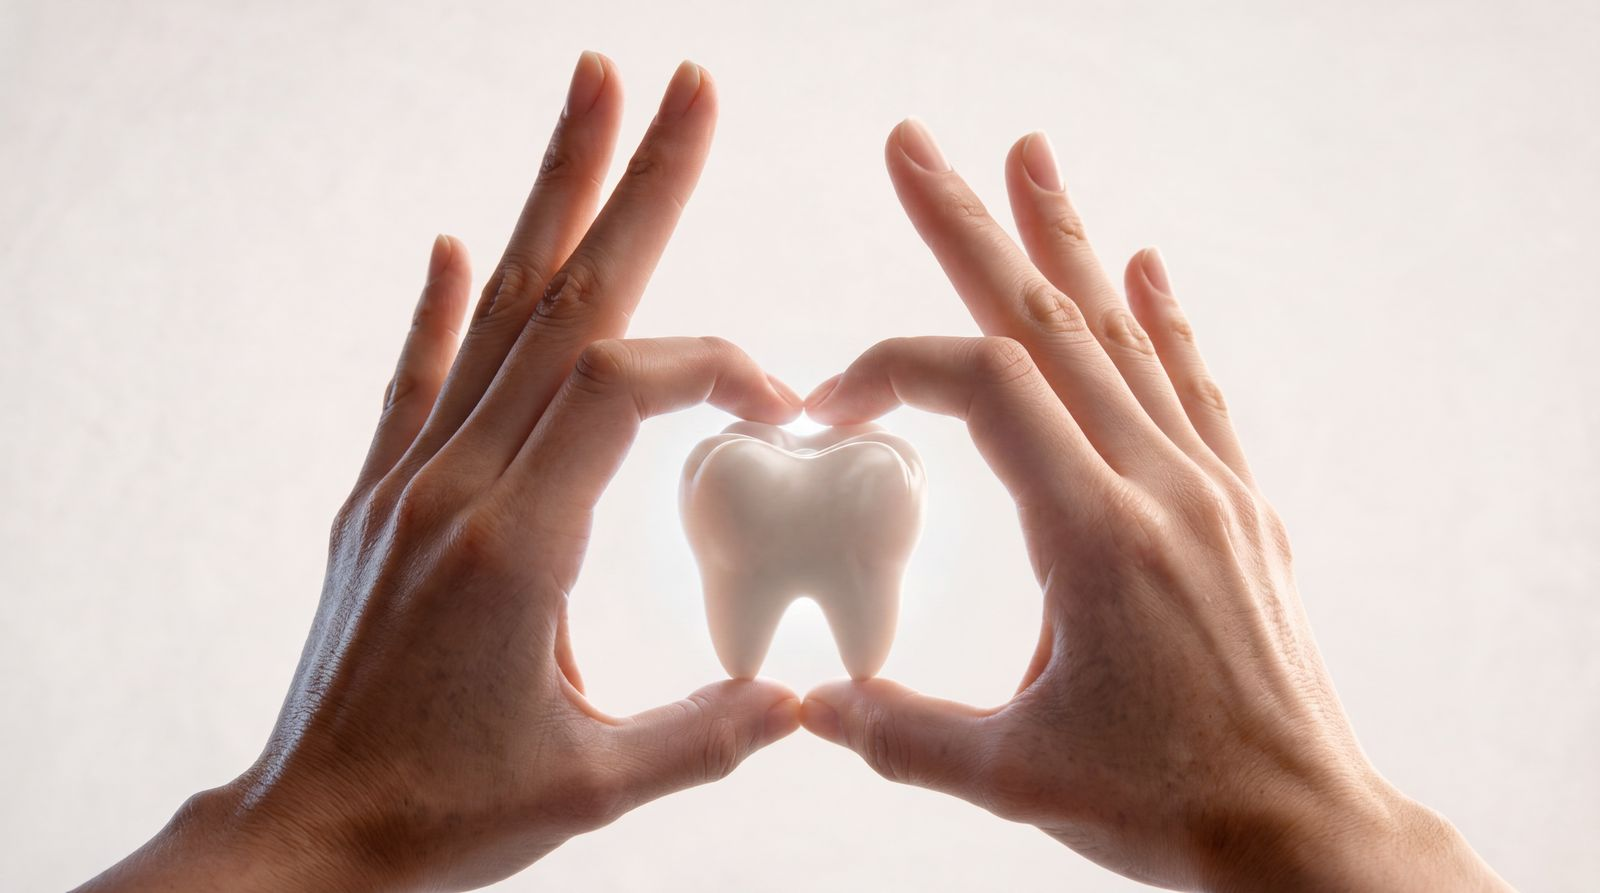
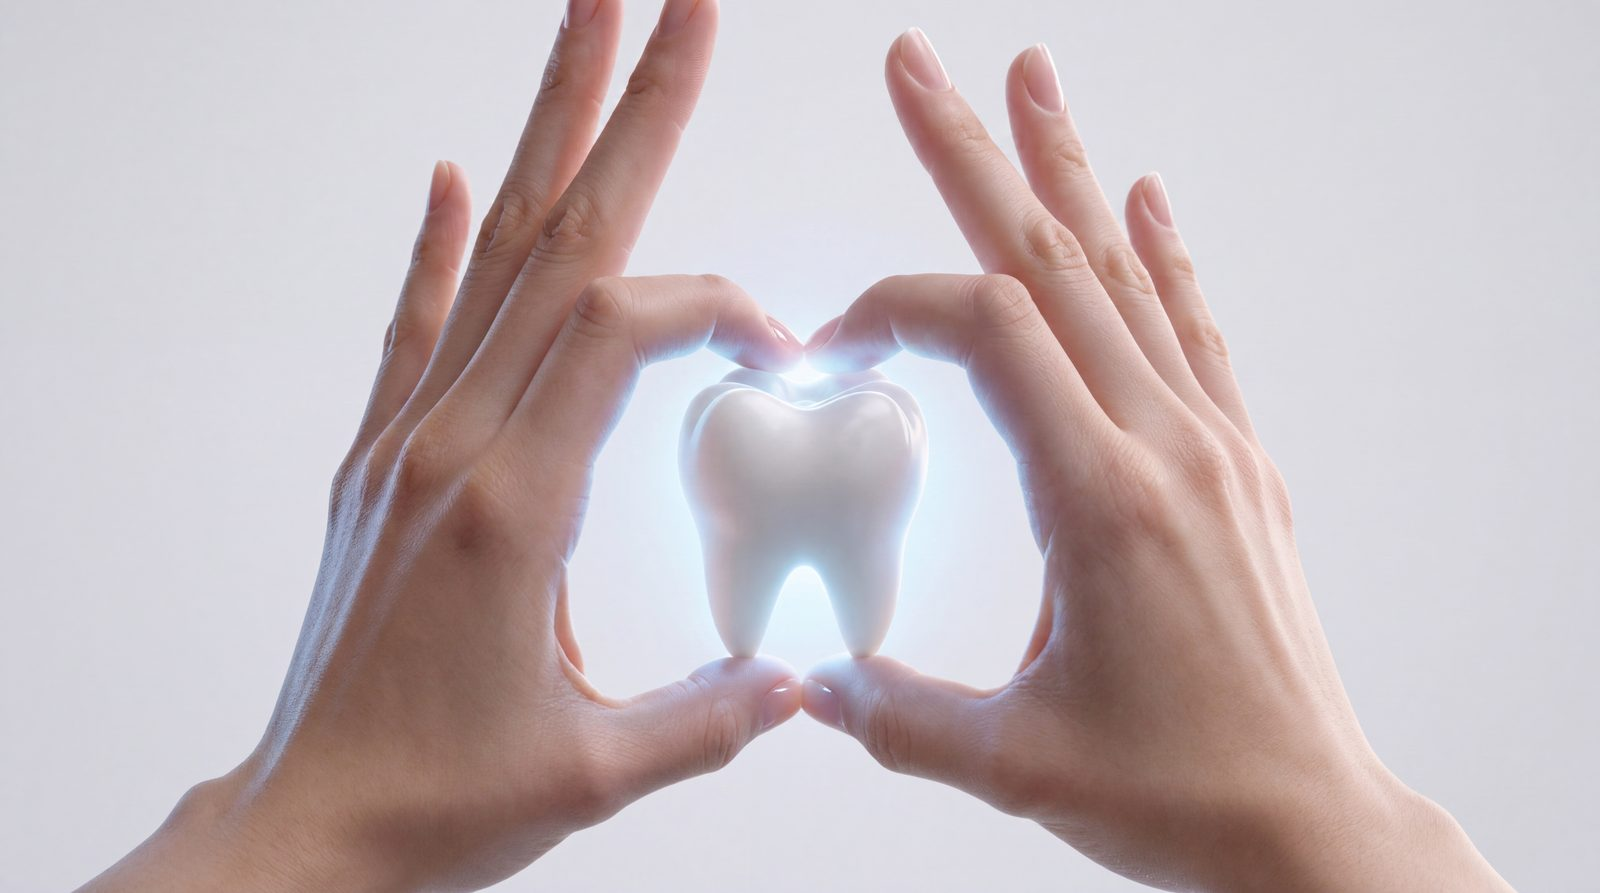
Секвенция «в наших руках»: новый zoom-набор из 9 кадров
Заменил прежние 11 фото на присланный набор Кадр_01…09 — это
последовательный наезд камеры на зуб в ладонях (крупный план → зуб
во весь кадр). Соседние кадры близки, поэтому скролл-скраб читается
как плавный zoom без «призраков» кроссфейда.
COUNT в hero-seq.js → 9; кадры оптимизированы (1600px JPG, ~0.74 МБ).

diff --git a/hero-seq.js b/hero-seq.js
@@ -11,7 +11,7 @@
     var canvas = document.getElementById("seqCanvas");
     if (!section || !canvas) return;
 
-    var COUNT = 11;
+    var COUNT = 9;
     var BASE = "hero-seq/";
     var steps = Array.prototype.slice.call(section.querySelectorAll(".reveal-seq__step"));
     var ctx = canvas.getContext("2d");
